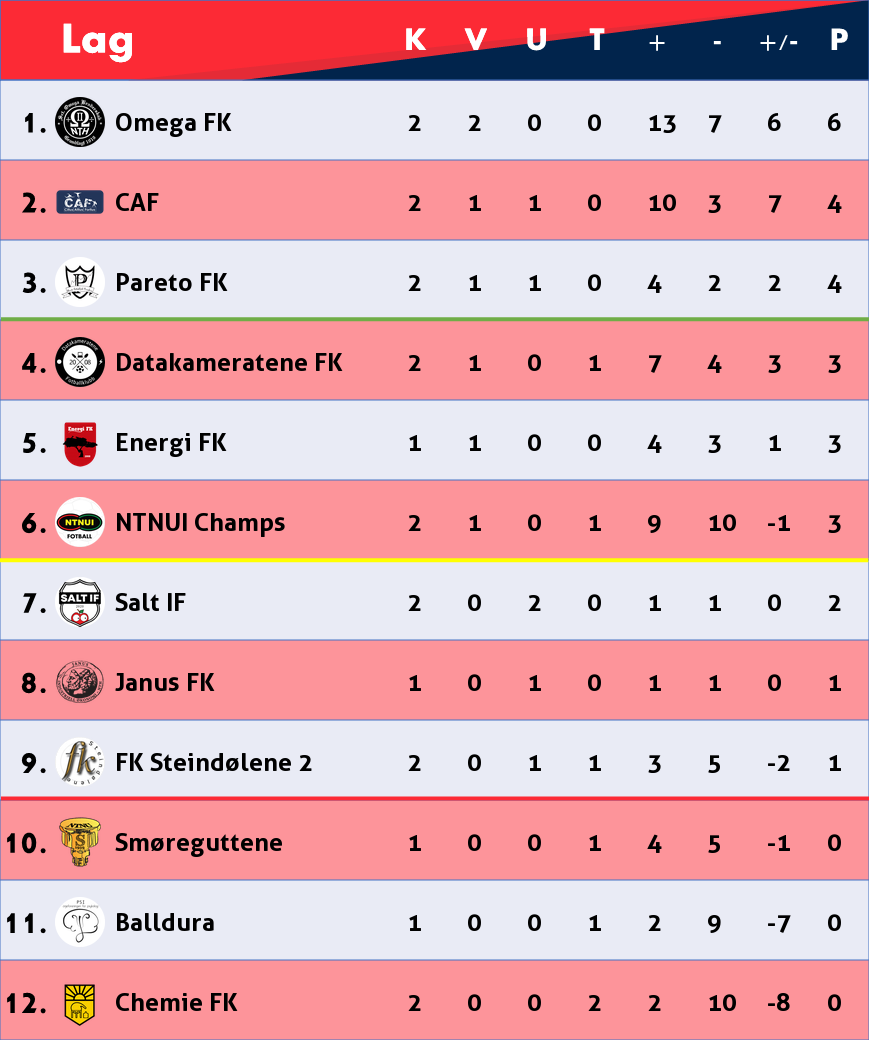
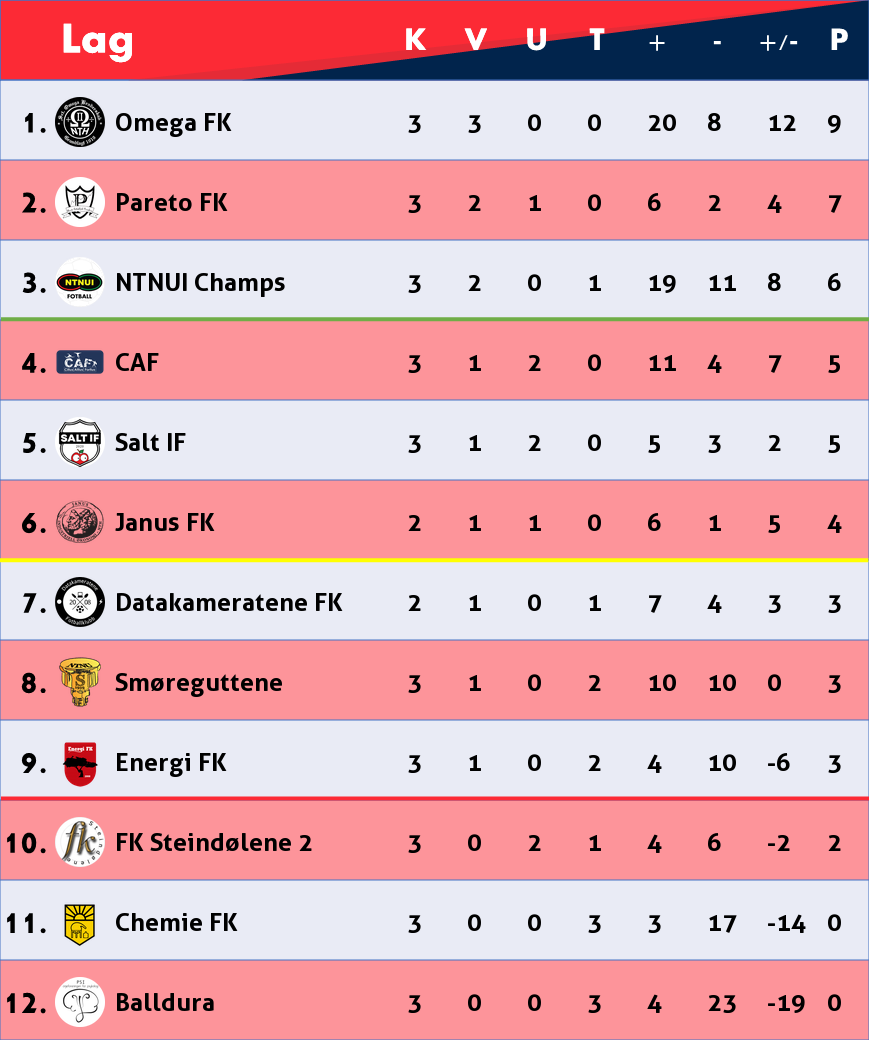
update table

diff --git a/Scripts/TableGenerator.py b/Scripts/TableGenerator.py
@@ -144,6 +144,6 @@ def main(avd):
 
 
 # Velg avdeling: A = 0, B = 1
-avd = 1
+avd = 0
 
 main(avd)
